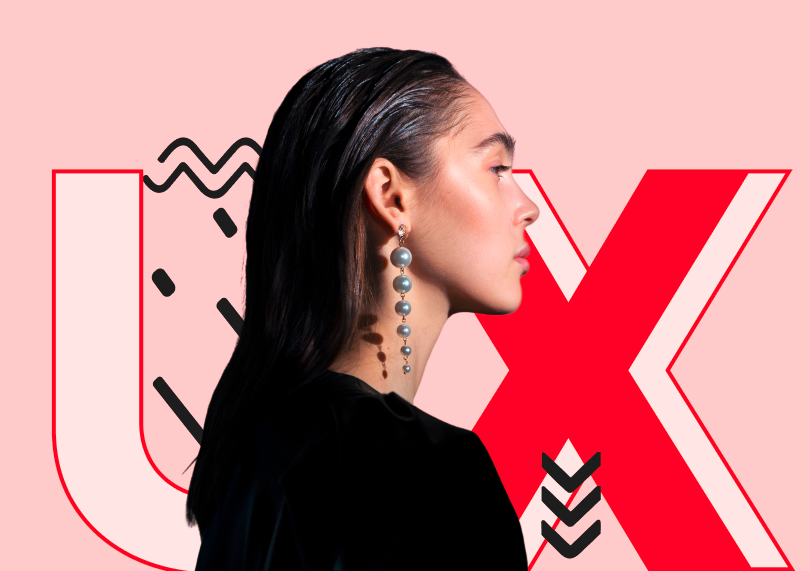
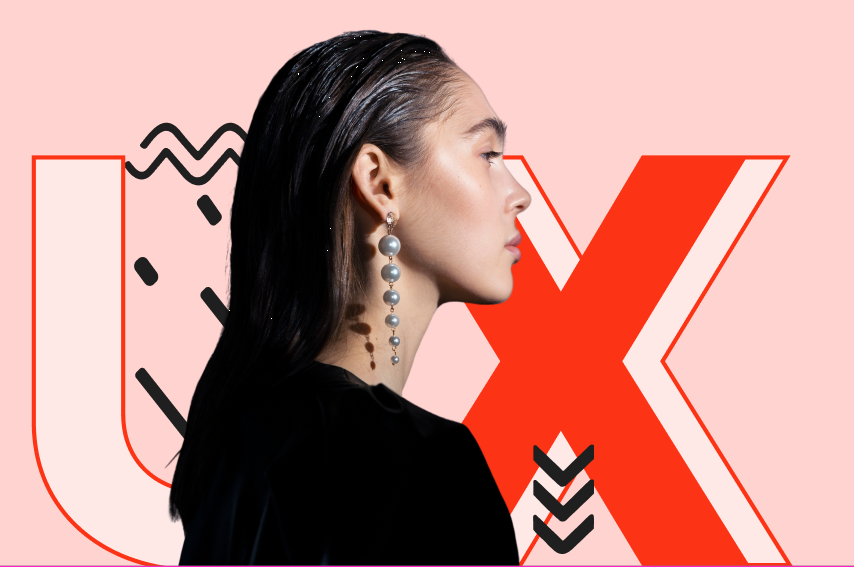
color red

diff --git a/index.html b/index.html
@@ -4,6 +4,25 @@
     <meta charset="UTF-8">
     <meta name="viewport" content="width=device-width, initial-scale=1.0">
     <title>El mejor título del mundo</title>
+
+    <style>
+        html {
+            font-family:'Gill Sans', 'Gill Sans MT', Calibri, 'Trebuchet MS', sans-serif;
+        }
+        header {
+            background-color: #FFD4D0;
+        }
+
+        h1 {
+            font-size: 20px;
+            font-weight: bold;
+        }
+      
+        header span {
+            color: #FC3314;
+        }
+    
+    </style>
 </head>
 <body id="Topbar"> 
     <div>
